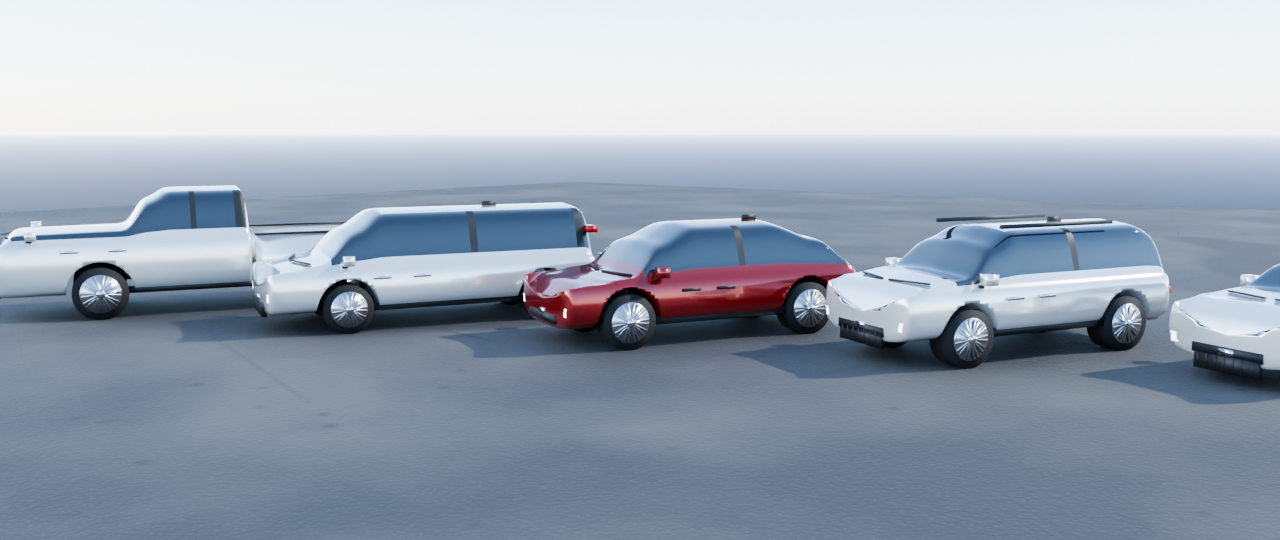
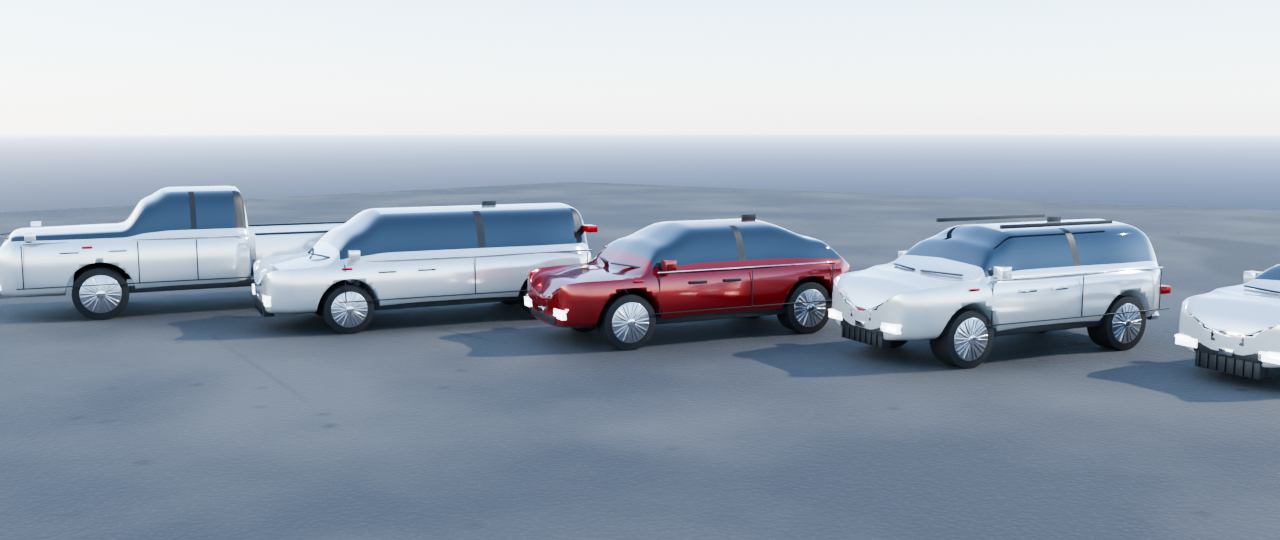
Car bodies reshaped (rounded fascias, fender flares over the wheels, higher beltlines, more tumblehome, smoother shoulders); detailing on the new surfaces: door shut lines, chrome belt trim, sill lines, side indicators, fog lamps, front plate, rounded tyre shoulders
Claude-Session: https://claude.ai/code/session_01PWmpu53kThn7KFGp88wUgC

diff --git a/costa-verde/tools/blender/realism.py b/costa-verde/tools/blender/realism.py
@@ -390,16 +390,16 @@ def _car(L_mm, W_mm, H_mm, WB_mm, wheel_mm, clear_mm, top, belt, wb_centre=0.5, 
 CAR_SPECS = {
     "sedan": _car(4915, 1840, 1445, 2825, 690, 140,
                   [(0, .42), (.02, .56), (.09, .66), (.17, .69), (.29, .93), (.38, 1), (.55, 1), (.65, .91), (.735, .7), (.9, .64), (.97, .56), (1, .4)],
-                  .63, .5, ["sunroof", "fin"]),
+                  .66, .5, ["sunroof", "fin"]),
     "suv": _car(4650, 1860, 1690, 2700, 740, 210,
                 [(0, .4), (.015, .62), (.045, .93), (.1, 1), (.58, 1), (.665, .9), (.77, .67), (.93, .61), (.985, .52), (1, .38)],
-                .59, .49, ["rails", "clad", "fin"]),
+                .64, .49, ["rails", "clad", "fin"]),
     "ev": _car(4750, 1920, 1624, 2890, 760, 160,
                [(0, .42), (.03, .63), (.13, .85), (.3, 1), (.56, 1), (.685, .86), (.785, .6), (.94, .55), (1, .42)],
-               .57, .5, ["flush", "fin"]),
+               .63, .5, ["flush", "fin"]),
     "van": _car(5170, 1995, 1740, 3060, 720, 160,
                 [(0, .4), (.012, .94), (.045, 1), (.66, 1), (.745, .84), (.845, .59), (.955, .54), (1, .4)],
-                .55, .48, ["fin"]),
+                .6, .48, ["fin"]),
     "pickup": _car(5884, 2030, 1995, 3694, 820, 240,
                    [(.36, .62), (.375, 1), (.57, 1), (.625, .92), (.69, .7), (.95, .69), (.99, .6), (1, .43)],
                    .62, .44, ["clad", "bed", "truckgrille"]),
@@ -428,21 +428,28 @@ def _car_mesh(kind):
         x = -L / 2 + L * t
         ztop = _interp(sp["top"], t) * H
         gh = max(0.0, min(1.0, (ztop - belt) / max(H - belt, 1e-6)))  # 1 = full-height greenhouse here
-        end = max(0.0, 1 - (abs(t - 0.5) / 0.5) ** 14) ** 0.35  # plan view: round the corners at nose / tail
-        hw = W / 2 * (0.9 + 0.1 * end)
+        end = max(0.0, 1 - (abs(t - 0.5) / 0.5) ** 6) ** 0.5  # plan view: corners taper in toward nose / tail
+        hw = W / 2 * (0.8 + 0.2 * end)
+        off = sp["L"] * (sp["wbc"] - 0.5)
+        for ax in (-sp["wb"] + off, sp["wb"] + off):  # fenders swell out over each wheel
+            hw += 0.12 * math.exp(-((x - ax) / (sp["wr"] * 1.4)) ** 2)
         lo = clear + 0.3
         half = [  # (y, z) from bottom centre up to roof centre
-            (0.0, lo), (hw - 0.45, lo), (hw - 0.05, lo + 0.55), (hw, lo + (belt - lo) * 0.45),  # rocker, door bulge
-            (hw - 0.06, belt - 0.3), (hw - 0.22, belt),  # shoulder, beltline
+            (0.0, lo), (hw - 0.5, lo), (hw - 0.08, lo + 0.5), (hw, lo + (belt - lo) * 0.42),  # rocker, door bulge
+            (hw - 0.05, belt - 0.4), (hw - 0.16, belt - 0.05),  # soft shoulder, beltline
         ]
         if gh > 0.02:  # greenhouse: glass tucks inward (tumblehome) up to the roof
-            z_top = belt + (ztop - belt)
-            half += [(hw * (0.9 - 0.04 * gh), belt + 0.12), (hw * (0.9 - 0.18 * gh), belt + (z_top - belt) * 0.82),
-                     (hw * (0.86 - 0.26 * gh), z_top - 0.04), (0.0, z_top + 0.06)]
+            z_top = ztop
+            half += [(hw * (0.92 - 0.06 * gh), belt + 0.1), (hw * (0.92 - 0.2 * gh), belt + (z_top - belt) * 0.8),
+                     (hw * (0.86 - 0.3 * gh), z_top - 0.05), (0.0, z_top + 0.05)]
         else:  # hood / trunk lid: upper points fold onto a gently crowned panel
-            half += [(hw * 0.86, ztop - 0.04), (hw * 0.62, ztop + 0.02), (hw * 0.34, ztop + 0.06), (0.0, ztop + 0.08)]
+            half += [(hw * 0.9, ztop - 0.06), (hw * 0.66, ztop + 0.02), (hw * 0.34, ztop + 0.07), (0.0, ztop + 0.09)]
         ring = [(-y, z) for y, z in half[::-1][:-1]] + half[1:]  # mirror into a full loop (centre points shared)
-        ring = [(y, z) for y, z in ring]
+        edge = min(t - t0, 1 - t) / max(1 - t0, 1e-6)  # 0 at the very nose / tail
+        if edge < 0.06:  # round the fascia in side view: pull the end rings in toward their centre
+            k = 0.9 + 0.1 * (edge / 0.06) ** 0.6
+            zc = (lo + ztop) / 2
+            ring = [(y * (k * 0.97), zc + (z - zc) * k) for y, z in ring]
         rings.append([bm.verts.new((x, y, z)) for y, z in ring])
         gh_list.append(gh)
         xs.append(t)
@@ -503,8 +510,11 @@ def _car_parts(kind, coll, mats):
             _cyl(bm, (cx, side * (W / 2 + 0.02), wr), wr * 0.16, wr * 0.16, 0.08, 16, 6, "Y")  # hub with chrome cap
     for side in (-1, 1):
         # headlight cluster: slim, swept back along the fender; DRL strip above
-        _cube(bm, (h - 0.55, side * W * 0.34, hood_z - 0.45), (0.9, W * 0.17, 0.26), 2)
-        _cube(bm, (h - 0.4, side * W * 0.34, hood_z - 0.27), (0.6, W * 0.19, 0.06), 2)
+        _cube(bm, (h - 0.2, side * W * 0.3, hood_z - 0.55), (0.6, W * 0.17, 0.26), 2)  # headlight cluster
+        _cube(bm, (h - 0.15, side * W * 0.3, hood_z - 0.38), (0.5, W * 0.19, 0.06), 2)  # LED strip
+        _cube(bm, (h - 0.15, side * W * 0.34, clear + 0.95), (0.2, 0.32, 0.12), 4)  # fog-lamp bezel
+        _cube(bm, (h - 0.06, side * W * 0.34, clear + 0.95), (0.06, 0.22, 0.07), 2)  # fog lamp
+        _cube(bm, (L * 0.28, side * (W / 2 + 0.06), sp["belt"] * H - 0.25), (0.45, 0.05, 0.1), 3)  # side indicator
         # tail lamps wrapping the corners
         _cube(bm, (-h + 0.35, side * W * 0.38, tail_z - 0.55), (0.5, W * 0.16, 0.3), 3)
         # mirror on a stalk at the base of the A-pillar
@@ -520,20 +530,30 @@ def _car_parts(kind, coll, mats):
     if "flush" not in ex:  # grille: frame + dark mesh, lower intake
         gw = W * (0.66 if "truckgrille" in ex else 0.46)
         gh = 1.2 if "truckgrille" in ex else 0.6
-        _cube(bm, (h - 0.1, 0, hood_z - 0.75 - gh / 2), (0.2, gw, gh), 6 if "truckgrille" in ex else 4)
+        _cube(bm, (h - 0.3, 0, hood_z - 0.75 - gh / 2), (0.45, gw, gh), 6 if "truckgrille" in ex else 4)
         for k in range(int(gw / 0.35)):
-            _cube(bm, (h - 0.02, -gw / 2 + 0.17 + k * 0.35, hood_z - 0.75 - gh / 2), (0.08, 0.06, gh * 0.9), 4)
+            _cube(bm, (h - 0.06, -gw / 2 + 0.17 + k * 0.35, hood_z - 0.75 - gh / 2), (0.1, 0.06, gh * 0.9), 4)
     else:
         _cube(bm, (h - 0.25, 0, hood_z - 0.3), (0.08, W * 0.82, 0.05), 2)  # EV: one light bar across the nose
-    _cube(bm, (h - 0.15, 0, clear + 0.75), (0.3, W * 0.5, 0.35), 4)  # lower intake
+    _cube(bm, (h - 0.25, 0, clear + 0.75), (0.4, W * 0.48, 0.35), 4)  # lower intake
+    _cube(bm, (h - 0.05, 0, clear + 1.3), (0.05, 1.3, 0.45), 6)  # front plate
     _cube(bm, (-h + 0.25, 0, tail_z - 0.5), (0.1, W * 0.84, 0.08), 3)  # full-width tail light bar
     _cube(bm, (-h + 0.2, 0, clear + 0.55), (0.25, W * 0.6, 0.3), 4)  # rear diffuser
     _cube(bm, (-h + 0.06, 0, tail_z - 1.15), (0.05, 1.3, 0.55), 6)  # plate
-    _cube(bm, (h - 0.02, 0, hood_z - 0.62), (0.05, 0.55, 0.22), 6)  # badge
+    _cube(bm, (h + 0.0, 0, hood_z - 0.6), (0.06, 0.55, 0.22), 6)  # badge
     wind = next(t for t in [i / 200 for i in range(200, -1, -1)] if zt(t) > sp["belt"] * H + 0.15) * L - h
     for k in (-1, 1):  # wipers at the base of the windscreen
         vs = _cube(bm, (wind + 0.2, k * W * 0.2, sp["belt"] * H + 0.2), (0.12, W * 0.34, 0.06), 4)
         bmesh.ops.rotate(bm, verts=vs, cent=(wind + 0.2, k * W * 0.2, sp["belt"] * H + 0.2), matrix=Matrix.Rotation(0.25 * k, 3, "Z"))
+    cab_ts = [i / 200 for i in range(201) if zt(i / 200) > sp["belt"] * H + 0.4]
+    if cab_ts:
+        c0, c1 = cab_ts[0] * L - h, cab_ts[-1] * L - h
+        for side in (-1, 1):
+            y = side * (W / 2 + 0.015)
+            _cube(bm, ((c0 + c1) / 2, side * (W / 2 * 0.93), sp["belt"] * H + 0.02), (c1 - c0 - 0.6, 0.1, 0.07), 6)  # chrome belt trim
+            for xd in (c1 - 0.3, (c0 + c1) / 2, c0 + 0.6 if kind not in ("pickup",) else (c0 + c1) / 2 - 2.6):  # door shut lines
+                _cube(bm, (xd, y, (clear + 0.9 + sp["belt"] * H) / 2), (0.05, 0.03, sp["belt"] * H - clear - 1.0), 4)
+            _cube(bm, ((c0 + c1) / 2, y, clear + 0.95), (c1 - c0, 0.03, 0.05), 4)  # sill line
     if "rails" in ex:
         for side in (-1, 1):
             _cube(bm, (-L * 0.08, side * W * 0.33, H + 0.12), (L * 0.42, 0.15, 0.15), 4)
@@ -549,8 +569,11 @@ def _car_parts(kind, coll, mats):
             _cube(bm, ((x0 + x1) / 2, side * W * 0.445, (clear + 0.3 + top) / 2), (x1 - x0, 0.32, top - clear - 0.3), 5)
             _cube(bm, ((x0 + x1) / 2, side * W * 0.445, top + 0.04), (x1 - x0, 0.4, 0.08), 4)
         _cube(bm, (x0 + 0.18, 0, (clear + 0.3 + top) / 2), (0.36, W * 0.9, top - clear - 0.3), 5)
-    return _obj(coll.name + "_parts", bm, [mats["tyre"], mats["rim"], mats["head"], mats["tail"], mats["plastic"], mats["paint"],
-                                           mats["chrome"], mats["disc"], mats["caliper"], mats["glass"]], coll)
+    o = _obj(coll.name + "_parts", bm, [mats["tyre"], mats["rim"], mats["head"], mats["tail"], mats["plastic"], mats["paint"],
+                                        mats["chrome"], mats["disc"], mats["caliper"], mats["glass"]], coll)
+    bev = o.modifiers.new("soft", "BEVEL")  # rounded tyre shoulders and softened trim edges
+    bev.width, bev.segments, bev.limit_method = 0.1, 2, "ANGLE"
+    return o
 
 
 CAR_COLOURS = [((236, 236, 232), 25), ((24, 24, 26), 20), ((128, 130, 132), 16), ((190, 192, 194), 14), ((40, 66, 120), 10),
